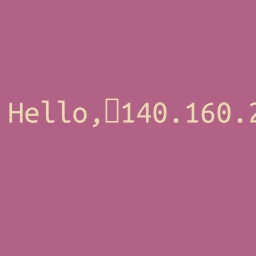
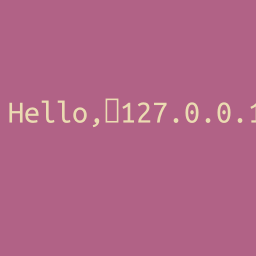
Change some images around

Changed region(s): [[0.5312, 0.375, 0.6562, 0.5], [0.7188, 0.375, 0.8438, 0.5], [0.9688, 0.375, 1.0, 0.4688]]

diff --git a/content/posts/avatar-png/index.md b/content/posts/avatar-png/index.md
@@ -17,7 +17,7 @@ computer I was using. It might have looked a bit like this.
 <!-- more -->
 
 <div style="display: flex; align-items: center; justify-content: center;">
-  <img style="height: 256px; width: 256px;" src="localhost-ipv4.png" alt="White text on a pinkish/purple background which says 'Hello, 127.0.0.1!'. The text is left-aligned and roughly vertically centered in the image.">
+  <img style="height: 256px; width: 256px;" src="avatar.png" alt="White text on a pinkish/purple background which says 'Hello, 140.160.254.56!'. The text is left-aligned and roughly vertically centered in the image.">
 </div>
 
 We were both working at our university's IT help desk and I think Skype for
@@ -577,7 +577,7 @@ enough. At last, we can reproduce the original PHP with output that looks
 something like this.
 
 <div style="display: flex; align-items: center; justify-content: center;">
-  <img style="height: 256px; width:256px;" src="with-newline.png" height="256" width="256" alt="TODO: Draw text on PNG">
+  <img style="height: 256px; width:256px;" src="localhost-ipv4.png" height="256" width="256" alt="TODO: Draw text on PNG">
 </div>
 
 ## Room for Improvement
